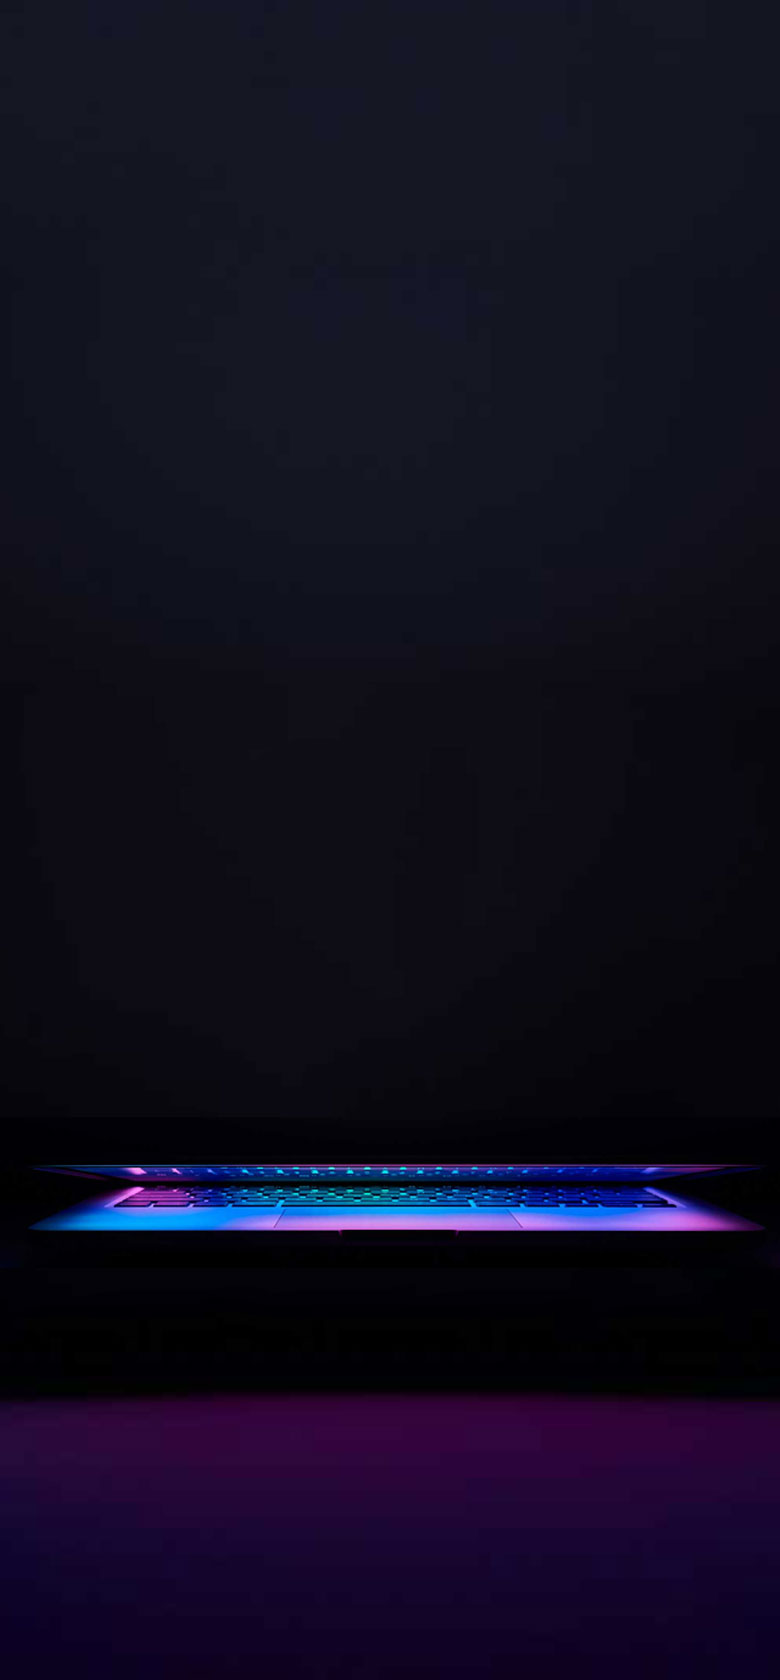
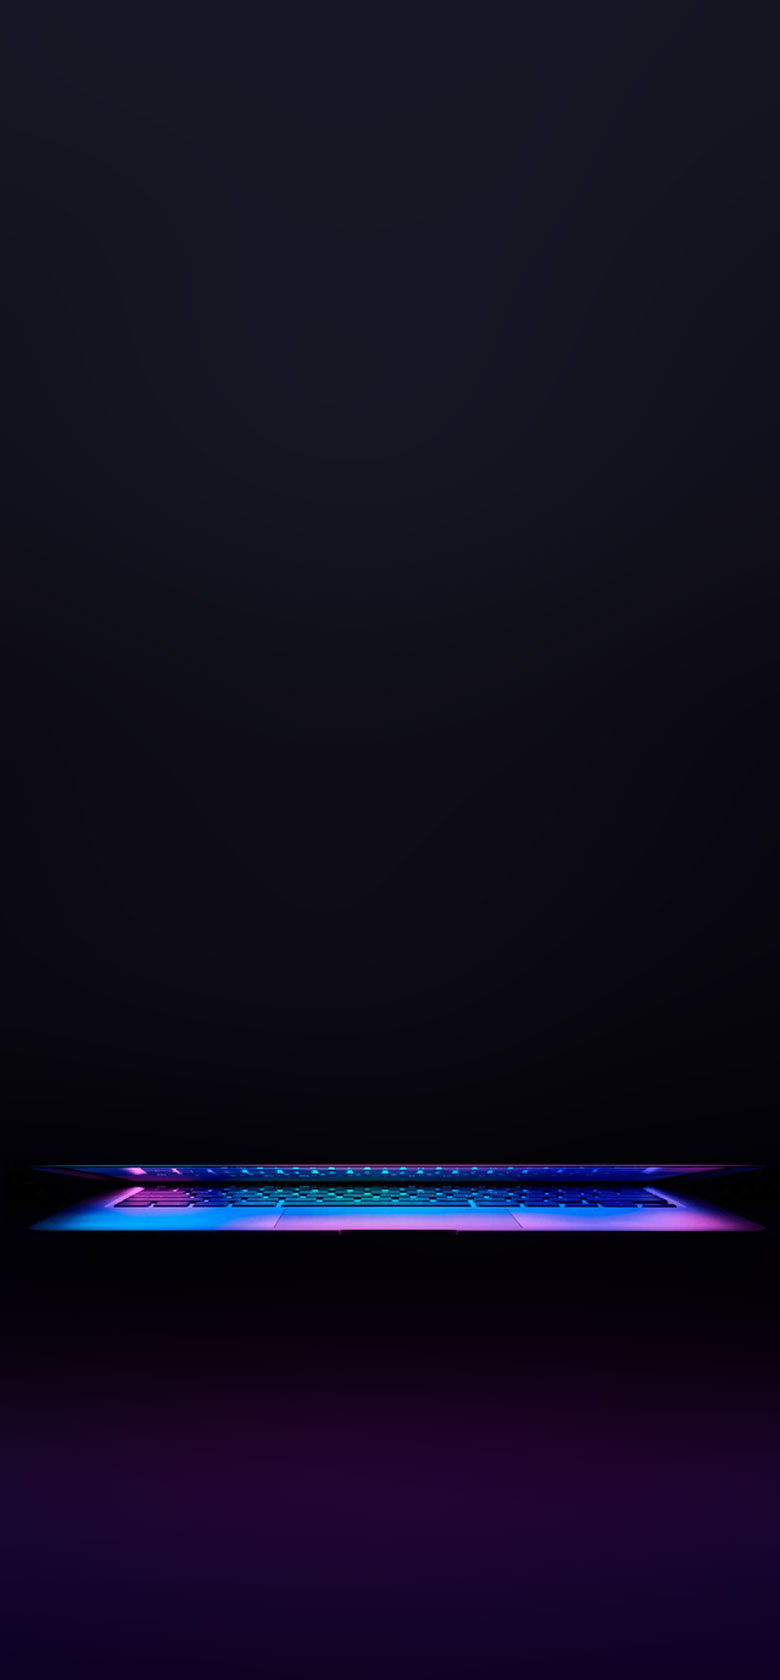
bg adjustments

Changed region(s): [[0.0308, 0.8357, 0.7692, 0.8667], [0.8, 0.8357, 0.8615, 0.8667], [0.7692, 0.8048, 0.8, 0.8357]]

diff --git a/css/custom.css b/css/custom.css
@@ -18,6 +18,10 @@ a, a:focus, a:active, :focus { outline: none !important; text-decoration: none; 
   width: auto;
   transform: translateX(-50%);
 }
+.hero-bg-mob {
+  top: unset;
+  bottom: 0;
+}
 
 /* Change color on scroll */
 #main-nav {
